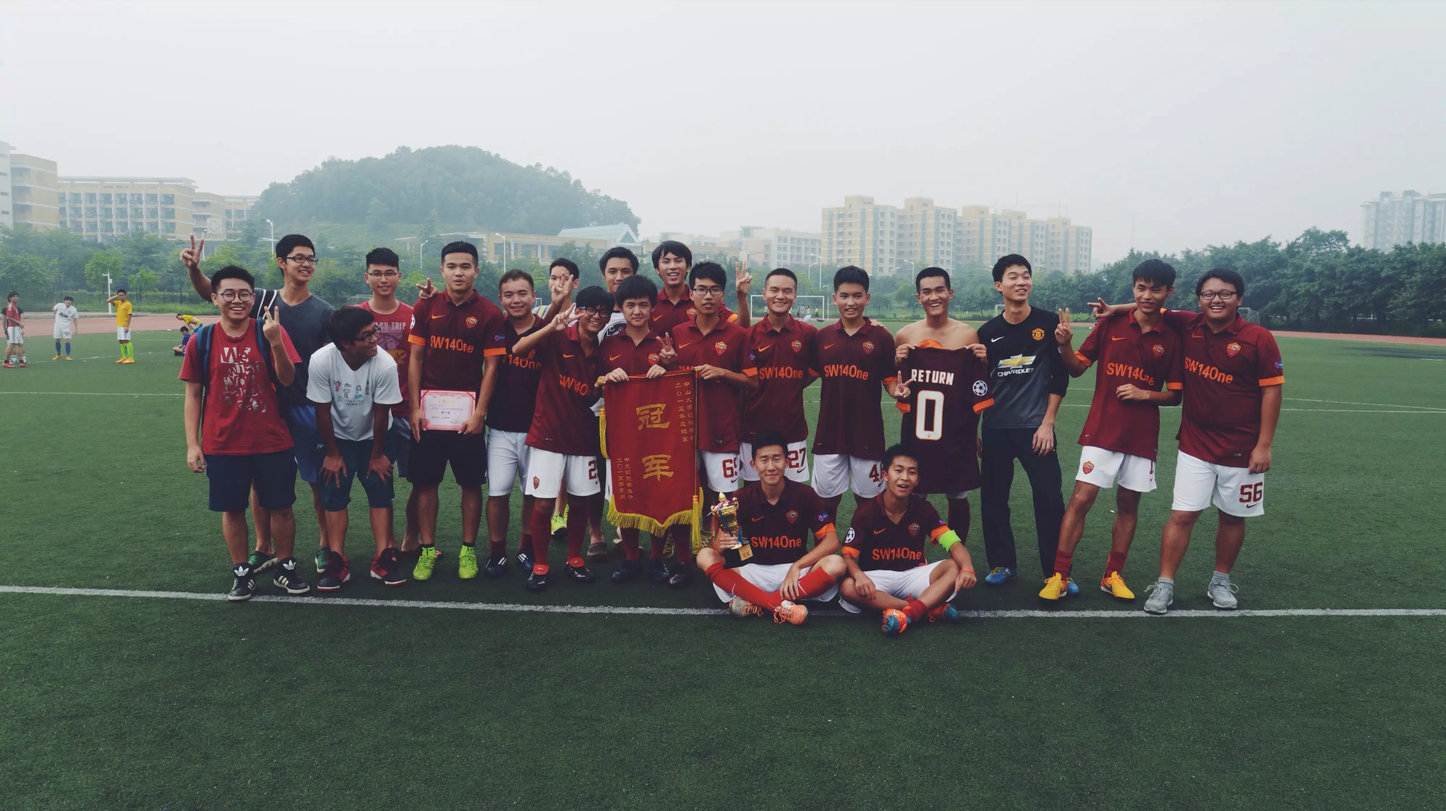
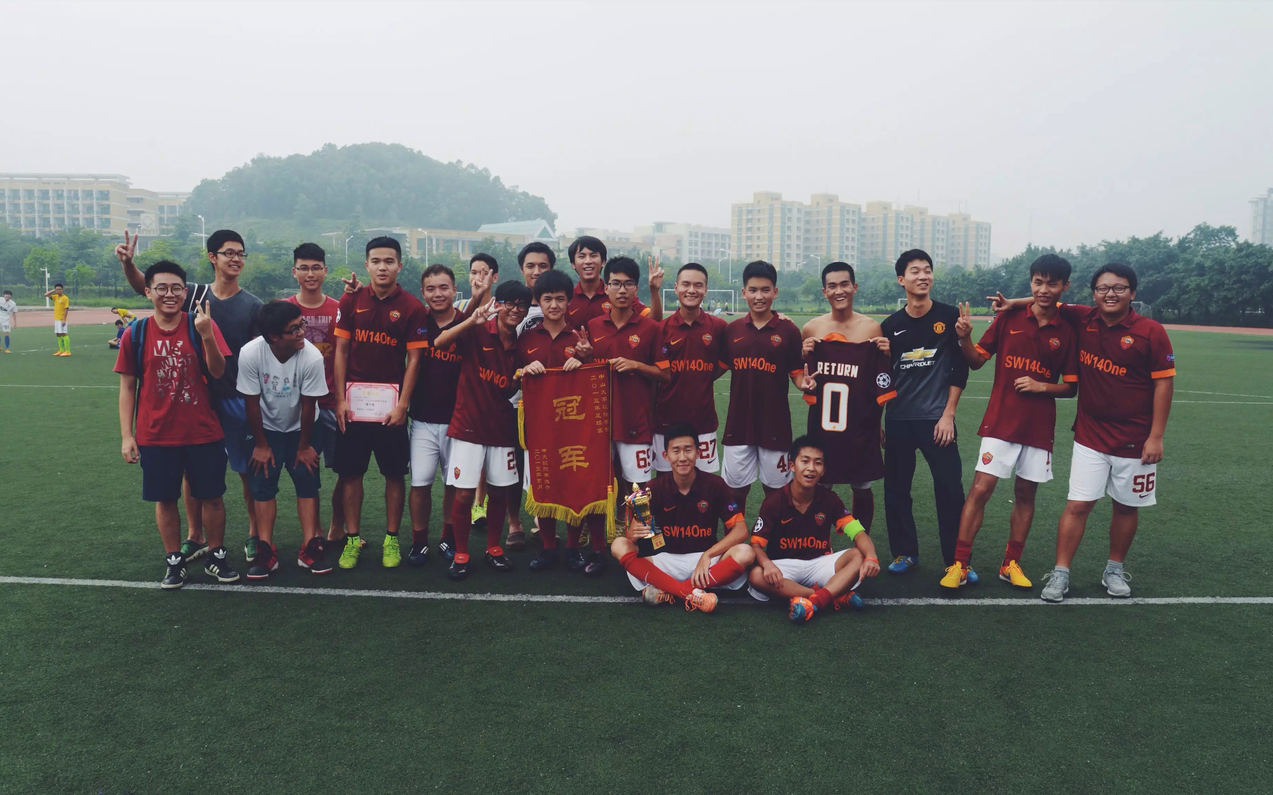
修改了一下主页的图片及细节

diff --git a/client/layout.html b/client/layout.html
@@ -4,7 +4,7 @@
 <template name="layout">
   <div class="container-fluid p-0">
 
-    <div class="row h-80 mb-50 bg-hwfc-blue ml-0 mr-0">
+    <div class="row h-75 mb-40 bg-hwfc-blue ml-0 mr-0">
       <div class="col-md-6 col-xs-2 pl-0 pr-0 zhaoxin">
         <a class="text-white text-bold fs-23 pl-15" href="{{pathFor 'recruit'}}">招新报名<span class="glyphicon glyphicon-arrow-left pl-10"></span></a>
       </div>
@@ -29,14 +29,15 @@
         <a class="text-white text-center fs-16 text-bold" href="{{pathFor 'ranks'}}">积分榜</a>
       </div>
       <div class="col-md-1 col-xs-1 pl-0 pr-0">
-        <div class="glyphicon glyphicon-user text-center fs-23 mt-20 mb-7"></div>
+        <div class="glyphicon glyphicon-user text-center fs-23 mt-17 mb-6"></div>
         <a class="text-white text-center fs-16 text-bold" href="{{pathFor 'login'}}">登录</a>
       </div>
     </div>
 
     {{> yield}}
 
-    <div class="mt-30 hwfc-blue mb-50">
+    <!-- <div class="navbar-fixed-bottom"> -->
+    <div class="hwfc-blue mb-40 mt-25">
       <p class="text-center fs-60 text-bold cursive mb-0">我在中大，混碗饭吃</p>
       <p class="text-center fs-35 cursive">Hello World Football Club</p>
     </div>
@@ -44,6 +45,7 @@
       <div class="pl-3 pt-3 cursive"> @Copyright Hello World Football Club
       </div>
     </div>
+    <!-- </div> -->
 
   </div>
 </template>

diff --git a/client/templates/home_page.html b/client/templates/home_page.html
@@ -5,9 +5,10 @@
             <div class="fs-30">{{content}}</div>
         {{/each}}
     </div> -->
+
   <div class="row ml-0 mr-0">
     
-    <div id="carousel-example-generic" class="carousel slide col-md-6 col-xs-12 pl-0 pr-0 ml-50 mr-50" data-ride="carousel">
+    <div id="carousel-example-generic" class="carousel slide col-md-6 col-xs-12 pl-0 pr-0 ml-40 mr-40" data-ride="carousel">
       <!-- Indicators -->
       <ol class="carousel-indicators mb-0">
         <li data-target="#carousel-example-generic" data-slide-to="0" class="active"></li>
@@ -16,6 +17,7 @@
       </ol>
 
       <!-- Wrapper for slides -->
+      <!-- 照片暂定 高/宽 = 0.625 -->
       <div class="carousel-inner" role="listbox">
         <div class="item active">
           <img src="images/3.JPG" class="img-responsive" alt='1'>
@@ -32,7 +34,7 @@
         <div class="item">
           <img src="images/1.JPG" class="img-responsive" alt='3'>
           <div class="carousel-caption">
-            未来是你们的
+            
           </div>
         </div>
       </div>

diff --git a/client/styles/layout.css b/client/styles/layout.css
@@ -20,8 +20,8 @@
   height: 40px !important;
   margin-left: auto !important;
   margin-right: auto !important;
-  margin-top: 8px;
-  margin-bottom: 7px;
+  margin-top: 6px;
+  margin-bottom: 5px;
 }
 
 .cursive {

diff --git a/client/templates/introduction.html b/client/templates/introduction.html
@@ -1,5 +1,6 @@
 <template name="introduction">
-  <div class="container">
+
+  <div class="container row-md-8">
     <!--时间轴-->
 
     <!--第一行-->

diff --git a/README.md b/README.md
@@ -1,7 +1,7 @@
 # HWFC
 ###HWFC官方网站。
 **启动方式：**    
-*  确保电脑上的meteor已为1.3以上版本。    
+*  确保电脑上的meteor已为1.4.0.1以上版本。    
 *  git clone 代码。     
 *  在目录下输入meteor进行启动。   
    
